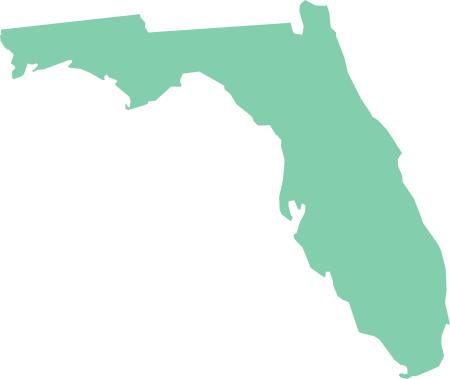
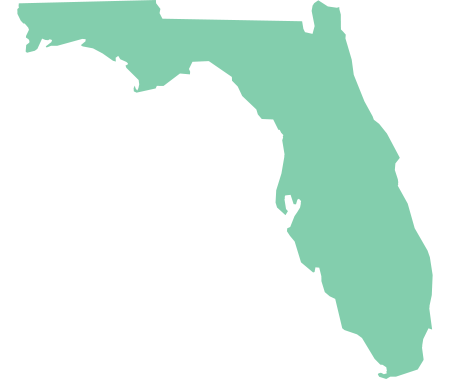
Added all the states and city pins for each city section.

diff --git a/css/custom.css b/css/custom.css
@@ -821,22 +821,134 @@ footer p {
 	width: 450px;
 }
 
-.location.florida .pointer {
-	top: -5px;
-	left: 182px;
+.location.tallahassee .pointer {
+	top: -15px;
+	left: 215px;
 }
 
-.location.florida .state {
+.location.tallahassee .state {
 	background-image: url('../images/trip/2013/america/florida.png');
 }
 
-.location.louisiana .pointer {
+.location.new-orleans .pointer {
 	top: 235px;
 	left: 322px;
 }
 
-.location.louisiana .state {
+.location.new-orleans .state {
 	background-image: url('../images/trip/2013/america/louisiana.png');
+}
+
+.location.houston .pointer {
+	top: 185px;
+	left: 360px;
+}
+
+.location.austin .pointer {
+	top: 160px;
+	left: 280px;
+}
+
+.location.fort-worth .pointer {
+	top: 90px;
+	left: 295px;
+}
+
+.location.houston .state, .location.austin .state, .location.fort-worth .state {
+	background-image: url('../images/trip/2013/america/texas.png');
+}
+
+.location.oklahoma .pointer {
+	top: 120px;
+	left: 295px;
+}
+
+.location.oklahoma .state {
+	background-image: url('../images/trip/2013/america/oklahoma.png');
+}
+
+.location.kansas .pointer {
+	top: 190px;
+	left: 255px;
+}
+
+.location.kansas .state {
+	background-image: url('../images/trip/2013/america/kansas.png');
+}
+
+.location.denver .pointer {
+	top: 70px;
+	left: 255px;
+}
+
+.location.denver .state {
+	background-image: url('../images/trip/2013/america/colorado.png');
+}
+
+.location.nevada .pointer {
+	top: 274px;
+	left: 237px;
+}
+
+.location.nevada .state {
+	background-image: url('../images/trip/2013/america/nevada.png');
+}
+
+.location.paso-robles .pointer {
+	top: 185px;
+	left: 150px;
+}
+
+.location.napa .pointer {
+	top: 92px;
+	left: 106px;
+}
+
+.location.san-francisco .pointer {
+	top: 113px;
+	left: 103px;
+}
+
+.location.sacramento .pointer {
+	top: 86px;
+	left: 121px;
+}
+
+.location.gasquet .pointer {
+	top: -42px;
+	left: 75px;
+}
+
+.location.paso-robles .state, .location.napa .state, .location.san-francisco .state, .location.sacramento .state, .location.gasquet .state {
+	background-image: url('../images/trip/2013/america/california.png');
+}
+
+.location.eugene .pointer {
+	top: 104px;
+	left: 90px;
+}
+
+.location.portland .pointer {
+	top: 29px;
+	left: 105px;
+}
+
+.location.eugene .state, .location.portland .state {
+	background-image: url('../images/trip/2013/america/oregon.png');
+}
+
+.location.tacoma .pointer {
+	top: 125px;
+	left: 120px;
+}
+
+.location.seattle .pointer {
+	top: 95px;
+	left: 124px;
+}
+
+.location.tacoma .state, .location.seattle .state {
+	background-image: url('../images/trip/2013/america/washington.png');
 }
 
 @media screen and (max-width: 1200px) {

diff --git a/trip/2013/america/index.php b/trip/2013/america/index.php
@@ -66,7 +66,7 @@
 				<div class="row">
 					<div class="container">
 						<div class="span12">
-							<div class="location florida">
+							<div class="location tallahassee">
 								<span class="pointer"></span>
 								<div class="state"></div>
 							</div>
@@ -80,7 +80,7 @@
 				<div class="row">
 					<div class="container">
 						<div class="span12">
-							<div class="location louisiana pull-right">
+							<div class="location new-orleans pull-right">
 								<span class="pointer"></span>
 								<div class="state"></div>
 							</div>
@@ -94,6 +94,10 @@
 				<div class="row">
 					<div class="container">
 						<div class="span12">
+							<div class="location houston">
+								<span class="pointer"></span>
+								<div class="state"></div>
+							</div>
 							<span class="frame pull-right">
 								<h2>Houston, Texas</h2>
 								<p class="muted">Coming Soon</p>
@@ -104,6 +108,10 @@
 				<div class="row">
 					<div class="container">
 						<div class="span12">
+							<div class="location austin pull-right">
+								<span class="pointer"></span>
+								<div class="state"></div>
+							</div>
 							<span class="frame">
 								<h2>Austin, Texas</h2>
 								<p class="muted">Coming Soon</p>
@@ -114,6 +122,10 @@
 				<div class="row">
 					<div class="container">
 						<div class="span12">
+							<div class="location fort-worth">
+								<span class="pointer"></span>
+								<div class="state"></div>
+							</div>
 							<span class="frame pull-right">
 								<h2>Fort Worth, Texas</h2>
 								<p class="muted">Coming Soon</p>
@@ -124,6 +136,10 @@
 				<div class="row">
 					<div class="container">
 						<div class="span12">
+							<div class="location oklahoma pull-right">
+								<span class="pointer"></span>
+								<div class="state"></div>
+							</div>
 							<span class="frame">
 								<h2>Oklahoma City, Oklahoma</h2>
 								<p class="muted">Coming Soon</p>
@@ -133,6 +149,10 @@
 				</div>
 				<div class="row">
 					<div class="span12">
+						<div class="location kansas">
+							<span class="pointer"></span>
+							<div class="state"></div>
+						</div>
 						<span class="frame pull-right">
 							<h2>Wichita, Kansas</h2>
 							<p class="muted">Coming Soon</p>
@@ -142,6 +162,10 @@
 				<div class="row">
 					<div class="container">
 						<div class="span12">
+							<div class="location denver pull-right">
+								<span class="pointer"></span>
+								<div class="state"></div>
+							</div>
 							<span class="frame">
 								<h2>Denver, Colorado</h2>
 								<p class="muted">Coming Soon</p>
@@ -151,6 +175,10 @@
 				</div>
 				<div class="row">
 					<div class="span12">
+						<div class="location nevada">
+							<span class="pointer"></span>
+							<div class="state"></div>
+						</div>
 						<span class="frame pull-right">
 							<h2>Las Vegas, Nevada</h2>
 							<p class="muted">Coming Soon</p>
@@ -160,6 +188,10 @@
 				<div class="row">
 					<div class="container">
 						<div class="span12">
+							<div class="location paso-robles pull-right">
+								<span class="pointer"></span>
+								<div class="state"></div>
+							</div>
 							<span class="frame">
 								<h2>Paso Robles, California</h2>
 								<p class="muted">Coming Soon</p>
@@ -170,6 +202,10 @@
 				<div class="row">
 					<div class="container">
 						<div class="span12">
+							<div class="location napa">
+								<span class="pointer"></span>
+								<div class="state"></div>
+							</div>
 							<span class="frame pull-right">
 								<h2>Napa, California</h2>
 								<p class="muted">Coming Soon</p>
@@ -180,6 +216,10 @@
 				<div class="row">
 					<div class="container">
 						<div class="span12">
+							<div class="location san-francisco pull-right">
+								<span class="pointer"></span>
+								<div class="state"></div>
+							</div>
 							<span class="frame">
 								<h2>San Francisco, California</h2>
 								<p class="muted">Coming Soon</p>
@@ -190,6 +230,10 @@
 				<div class="row">
 					<div class="container">
 						<div class="span12">
+							<div class="location sacramento">
+								<span class="pointer"></span>
+								<div class="state"></div>
+							</div>
 							<span class="frame pull-right">
 								<h2>Sacramento, California</h2>
 								<p class="muted">Coming Soon</p>
@@ -200,6 +244,10 @@
 				<div class="row">
 					<div class="container">
 						<div class="span12">
+							<div class="location san-francisco pull-right">
+								<span class="pointer"></span>
+								<div class="state"></div>
+							</div>
 							<span class="frame">
 								<h2>San Francisco, California (Round Duex)</h2>
 								<p class="muted">Coming Soon</p>
@@ -210,6 +258,10 @@
 				<div class="row">
 					<div class="container">
 						<div class="span12">
+							<div class="location gasquet">
+								<span class="pointer"></span>
+								<div class="state"></div>
+							</div>
 							<span class="frame pull-right">
 								<h2>Gasquet, California</h2>
 								<p class="muted">Coming Soon</p>
@@ -220,6 +272,10 @@
 				<div class="row">
 					<div class="container">
 						<div class="span12">
+							<div class="location eugene pull-right">
+								<span class="pointer"></span>
+								<div class="state"></div>
+							</div>
 							<span class="frame">
 								<h2>Eugene, Oregon</h2>
 								<p class="muted">Coming Soon</p>
@@ -230,6 +286,10 @@
 				<div class="row">
 					<div class="container">
 						<div class="span12">
+							<div class="location portland">
+								<span class="pointer"></span>
+								<div class="state"></div>
+							</div>
 							<span class="frame pull-right">
 								<h2>Portland, Oregon</h2>
 								<p class="muted">Coming Soon</p>
@@ -240,6 +300,10 @@
 				<div class="row">
 					<div class="container">
 						<div class="span12">
+							<div class="location tacoma pull-right">
+								<span class="pointer"></span>
+								<div class="state"></div>
+							</div>
 							<span class="frame">
 								<h2>Tacoma, Washington</h2>
 								<p class="muted">Coming Soon</p>
@@ -250,6 +314,10 @@
 				<div class="row">
 					<div class="container">
 						<div class="span12">
+							<div class="location seattle">
+								<span class="pointer"></span>
+								<div class="state"></div>
+							</div>
 							<span class="frame pull-right">
 								<h2>Seattle, Washington</h2>
 								<p class="muted">Coming Soon</p>
@@ -260,6 +328,10 @@
 				<div class="row">
 					<div class="container">
 						<div class="span12">
+							<div class="location tacoma pull-right">
+								<span class="pointer"></span>
+								<div class="state"></div>
+							</div>
 							<span class="frame">
 								<h2>Tacoma, Washington</h2>
 								<p class="muted">Coming Soon</p>
